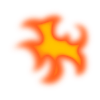
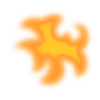
Exported and trimmed all the projectile images and made the flame sprite image a bit more yellow.

Changed region(s): [[0.18, 0.15, 0.9, 0.87]]

diff --git a/projectile-motion/src/js/views/projectile.js b/projectile-motion/src/js/views/projectile.js
@@ -32,25 +32,28 @@ define(function(require) {
          */
         initGraphics: function() {
             var projectileSprite = this.createProjectileSprite();
-            projectileSprite.anchor.x = 0.5;
-            projectileSprite.anchor.y = 0.5;
+            
             this.projectileSprite = projectileSprite;
             this.displayObject.addChild(projectileSprite);
 
             var restingProjectileSprite = this.createRestingProjectileSprite();
-            restingProjectileSprite.anchor.x = 0.5;
-            restingProjectileSprite.anchor.y = 0.5;
             restingProjectileSprite.visible = false;
             this.restingProjectileSprite = restingProjectileSprite;
             this.displayObject.addChild(restingProjectileSprite);
         },
 
         createProjectileSprite: function() {
-            return Assets.createSprite(Assets.Images.CANNON_BALL);
+            var sprite = Assets.createSprite(Assets.Images.CANNON_BALL);
+            sprite.anchor.x = 0.5;
+            sprite.anchor.y = 0.5;
+            return sprite;
         },
 
         createRestingProjectileSprite: function() {
-            return Assets.createSprite(Assets.Images.CANNON_BALL);
+            var sprite = Assets.createSprite(Assets.Images.CANNON_BALL);
+            sprite.anchor.x = 0.5;
+            sprite.anchor.y = 0.5;
+            return sprite;
         },
 
         updateRestState: function(model, atRest) {

diff --git a/projectile-motion/src/js/views/projectile/tank-shell.js b/projectile-motion/src/js/views/projectile/tank-shell.js
@@ -11,9 +11,12 @@ define(function(require) {
     var TankShellView = ProjectileView.extend({
 
         createProjectileSprite: function() {
-            return Assets.createSprite(Assets.Images.TANK_SHELL);
+            var sprite = Assets.createSprite(Assets.Images.TANK_SHELL);
+            sprite.anchor.x = 0.5;
+            sprite.anchor.y = 0.5;
+            return sprite;
         },
-
+        
         createRestingProjectileSprite: function() {
             return this.createProjectileSprite();
         },
